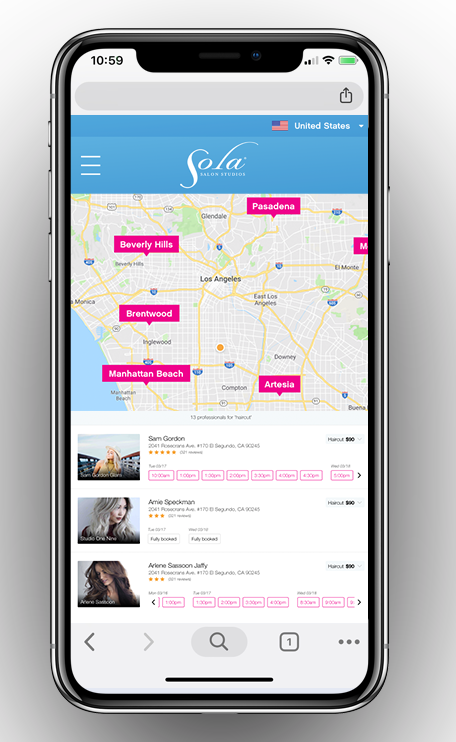
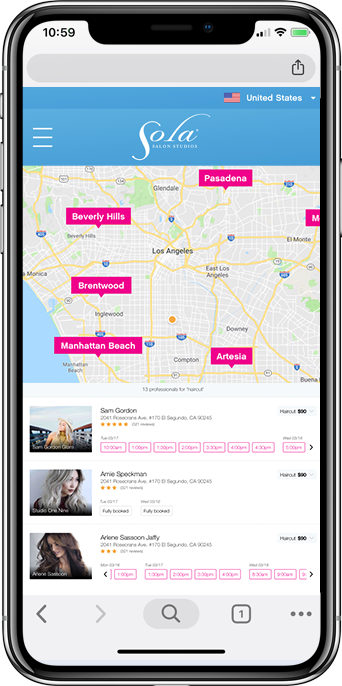
update sliders

diff --git a/app/assets/stylesheets/booknow_landing_page.css.scss b/app/assets/stylesheets/booknow_landing_page.css.scss
@@ -383,8 +383,8 @@ p{font-size: 16px;line-height: 18px;color:#ffffff;font-family: 'FuturaStd-Light'
 .functionality ul li a{font-size: 18px;line-height: 20px;color:#ffffff;position: relative;padding: 0 0 0 59px;display: inline-block;font-family: 'FuturaStd-Light';font-weight: normal;letter-spacing:1px;}
 .functionality ul li a:hover{text-decoration: none;}
 .functionality ul li a:before{content:'';display: inline-block;left:0;top: 3px;background: asset-url("booknow/calender-icon.png") no-repeat;width:33px;height:37px;position: absolute;}
-.functionality ul li.web a:before{content:'';display: inline-block;left:0;top:0px;background: asset-url("booknow/search.png") no-repeat;width:34px;height:33px;position: absolute;}
-.functionality ul li.service a:before{content:'';display: inline-block;left:0;top:0px;background: asset-url("booknow/sort.png") no-repeat;width:34px;height:33px;position: absolute;}
+.functionality ul li.web a:before{content:'';display: inline-block;left:0;top:0px;background: asset-url("booknow/search.png") no-repeat;width:34px;height:33px;position: absolute; top: 3px;}
+.functionality ul li.service a:before{content:'';display: inline-block;left:0;top:0px;background: asset-url("booknow/sort.png") no-repeat;width:34px;height:33px;position: absolute; top: 5px;}
 .functionality ul li.discover a:before{content:'';display: inline-block;left:0;top:0px;background: asset-url("booknow/proicon.png") no-repeat;width:42px;height:37px;position: absolute;}
 .functionality ul li.booking a:before{content:'';display: inline-block;left:0;top:0px;background: asset-url("booknow/booking.png") no-repeat;width:39px;height:39px;position: absolute;}
 .functionality ul li.compaign a:before{content:'';display: inline-block;left:0;top:0px;background: asset-url("booknow/compaign.png") no-repeat;width:42px;height:31px;position: absolute;}
@@ -582,7 +582,7 @@ body.booknow {
     .cloud{right:122px;}
     .slider-wrap{width:80%;}
     .mob-slider{width:33.3%;}
-    .found{width:33.3%;padding:340px 0 0 0;}
+    .found{width:33.3%;padding:340px 10px 0 0;}
     .functionality{width:33.3%;padding:330px 0 0 20px;}
     .functionality ul li a br{display: none;}
     .slidein-blk:before{width:300px;height:770px;}
